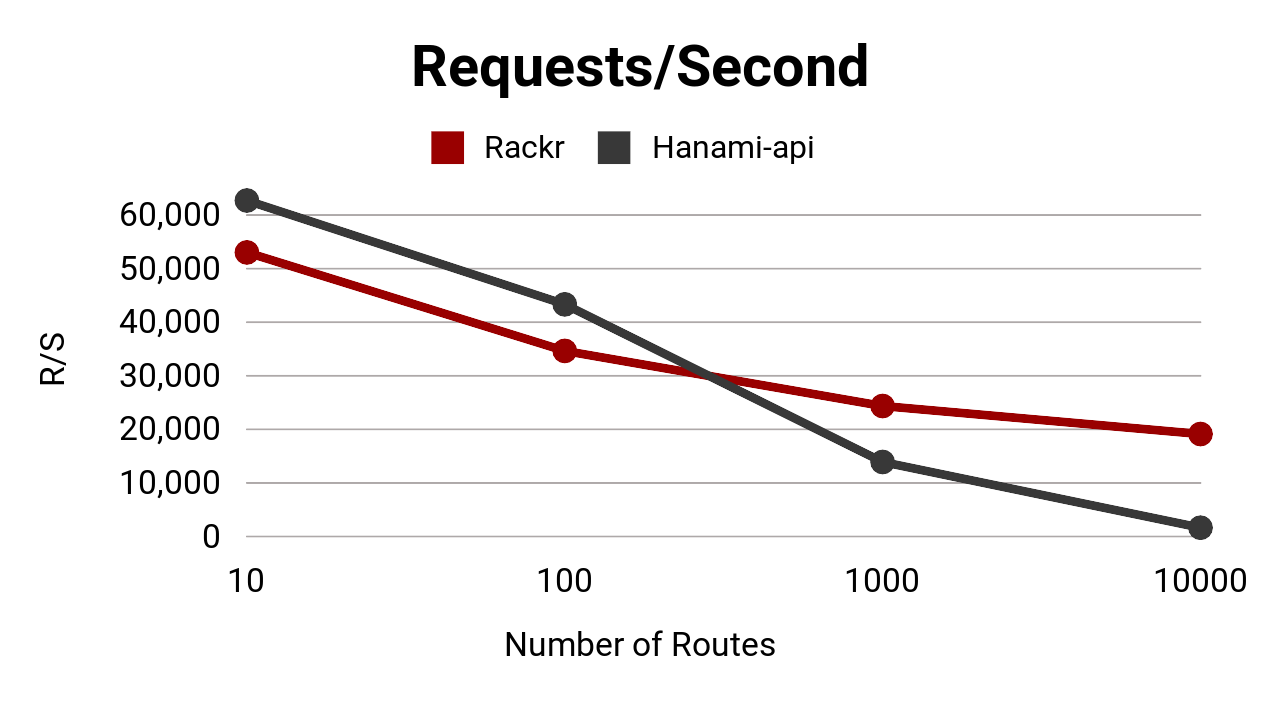
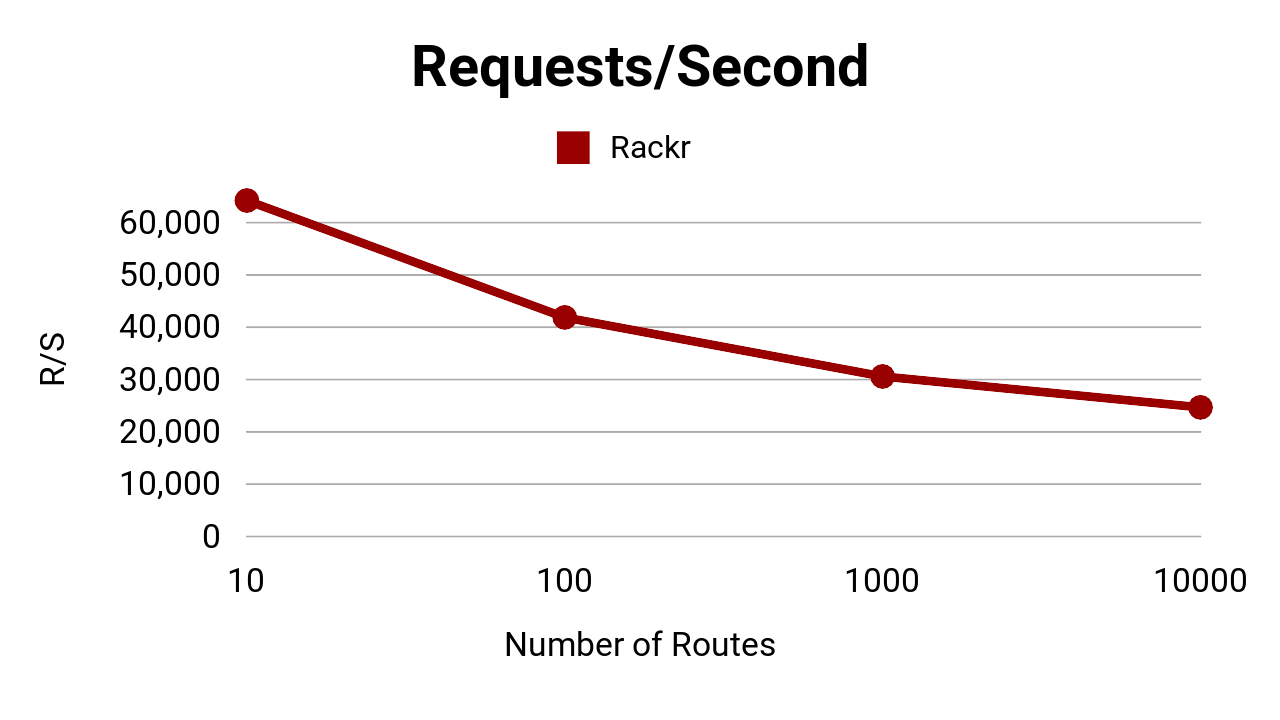
improve params lookup performance

Changed region(s): [[0.0938, 0.2444, 0.9688, 0.7639], [0.3125, 0.1833, 0.6562, 0.2444], [0.125, 0.6417, 0.1562, 0.7028]]

diff --git a/perf_tests/r10k/builders/rackr.rb b/perf_tests/r10k/builders/rackr.rb
@@ -25,7 +25,7 @@ end
 
 File.open("#{File.dirname(__FILE__)}/../apps/rackr_#{LEVELS}_#{ROUTES_PER_LEVEL}.rb", 'wb') do |f|
   f.puts "# frozen-string-literal: true"
-  f.puts "require_relative '../../lib/rackr'"
+  f.puts "require_relative '../../../lib/rackr'"
   f.puts "App = Rackr.new.call do"
   rackr_routes.call(f, LEVELS, [], ['a'])
   f.puts "end"

diff --git a/perf_tests/r10k/static/builders/rackr.rb b/perf_tests/r10k/static/builders/rackr.rb
@@ -22,7 +22,7 @@ end
 
 File.open("#{File.dirname(__FILE__)}/../apps/rackr_#{LEVELS}_#{ROUTES_PER_LEVEL}.rb", 'wb') do |f|
   f.puts "# frozen-string-literal: true"
-  f.puts "require_relative '../../../lib/rackr'"
+  f.puts "require_relative '../../../../lib/rackr'"
   f.puts "app = Rackr.new.call do"
   rackr_routes.call(f, LEVELS, [])
   f.puts "end"

diff --git a/lib/rackr/router/build_request.rb b/lib/rackr/router/build_request.rb
@@ -20,7 +20,7 @@ class Rackr
             param = @spplited_request_path[i]
             param = param.to_i if param =~ /\A[-+]?[0-9]*\.?[0-9]+\Z/
 
-            request.update_param(route_word[1..].to_sym, param)
+            request.params[route_word[1..].to_sym] = param
           end
 
           i += 1

diff --git a/perf_tests/r10k/apps/rackr_1_10.rb b/perf_tests/r10k/apps/rackr_1_10.rb
@@ -1,5 +1,5 @@
 # frozen-string-literal: true
-require_relative '../../lib/rackr'
+require_relative '../../../lib/rackr'
 App = Rackr.new.call do
       get 'a/:a' do |req|
         html("4797-#{req.params[:a]}")

diff --git a/perf_tests/r10k/apps/rackr_2_10.rb b/perf_tests/r10k/apps/rackr_2_10.rb
@@ -1,5 +1,5 @@
 # frozen-string-literal: true
-require_relative '../../lib/rackr'
+require_relative '../../../lib/rackr'
 App = Rackr.new.call do
   scope 'a' do
     scope ':a' do

diff --git a/perf_tests/r10k/apps/rackr_3_10.rb b/perf_tests/r10k/apps/rackr_3_10.rb
@@ -1,5 +1,5 @@
 # frozen-string-literal: true
-require_relative '../../lib/rackr'
+require_relative '../../../lib/rackr'
 App = Rackr.new.call do
   scope 'a' do
     scope ':a' do

diff --git a/perf_tests/r10k/apps/rackr_4_10.rb b/perf_tests/r10k/apps/rackr_4_10.rb
@@ -1,5 +1,5 @@
 # frozen-string-literal: true
-require_relative '../../lib/rackr'
+require_relative '../../../lib/rackr'
 App = Rackr.new.call do
   scope 'a' do
     scope ':a' do
